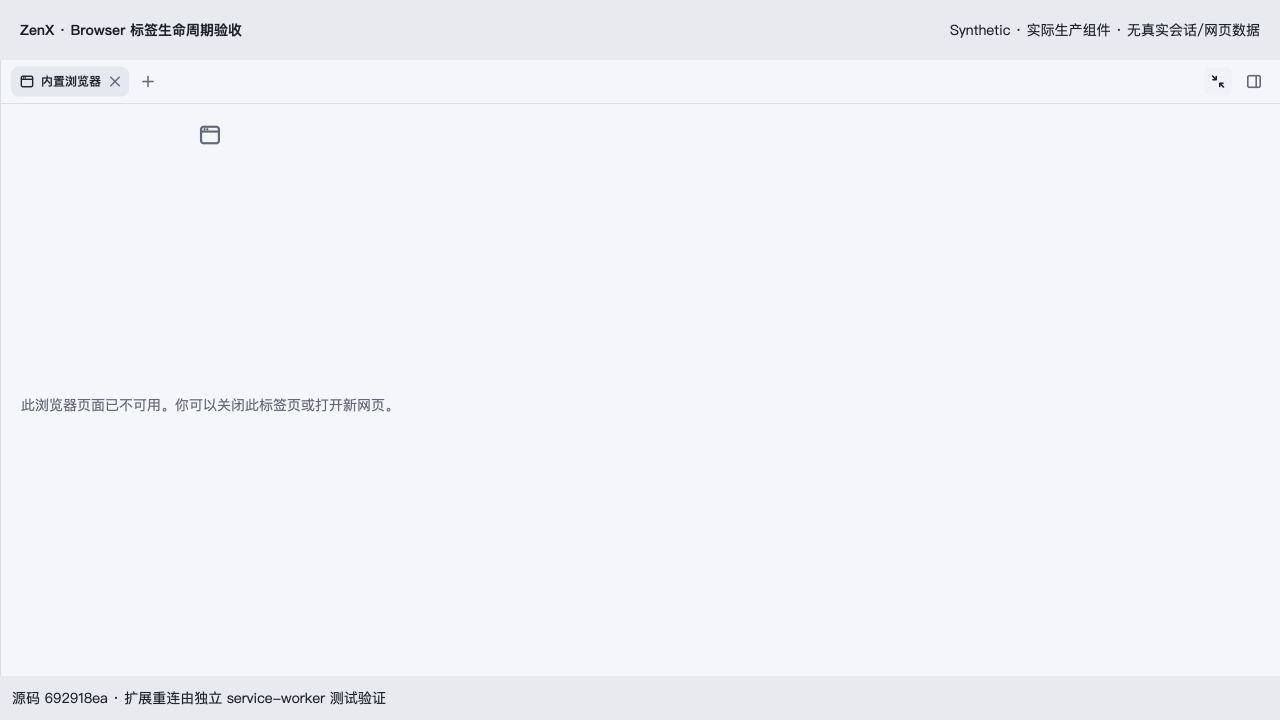
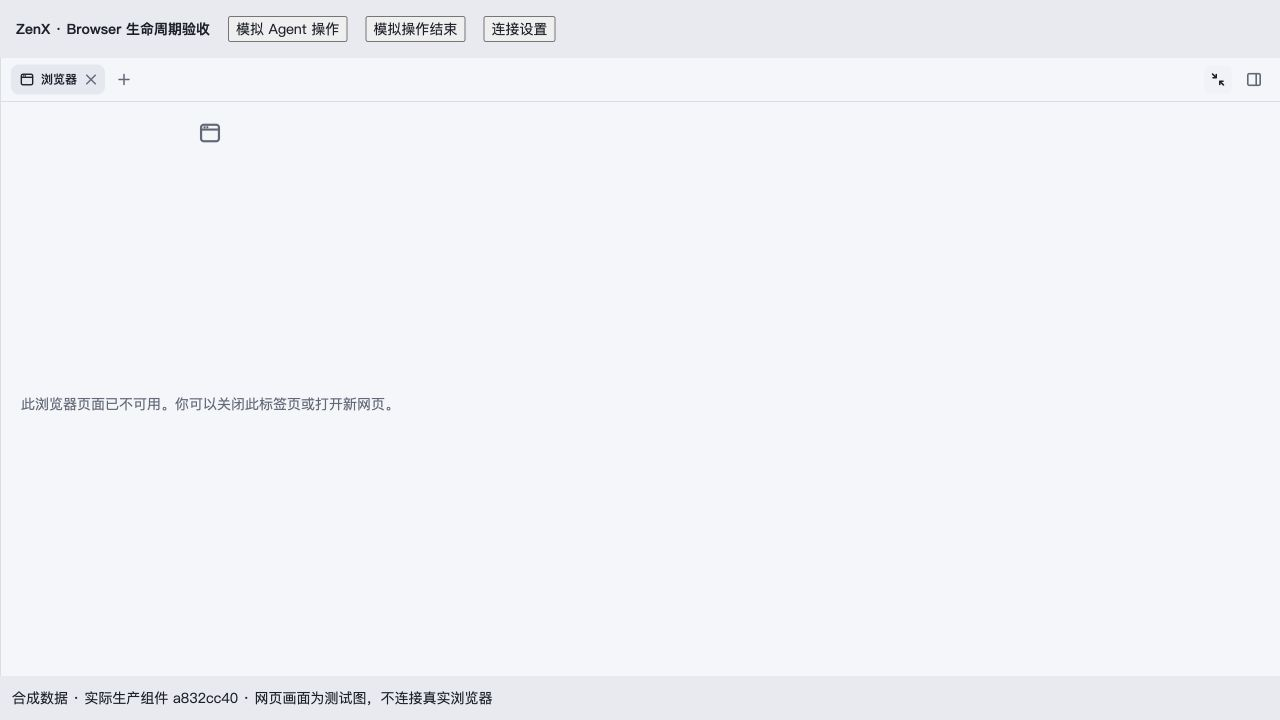
Capture unified automatic browser preview and connection acceptance

diff --git a/docs/verification/browser-tab-lifecycle.md b/docs/verification/browser-tab-lifecycle.md
@@ -1,15 +1,25 @@
-# Browser tab lifecycle verification
+# Browser lifecycle verification
 
-Production component source: `692918ea36f86a6174642e252fa04dc777667645`. Captured 2026-11-02 with the real AuxiliaryPanel, browser observer component and product styles in a Chromium browser. All resource ports, titles and URLs are synthetic. No real conversation, browser profile or learner data is included. The final documentation commit changes only these screenshots and this note.
+Runtime source: `a832cc40d0b8605fa9e0bf3c22adc13b528ffe27`, including main `831404a1`. Browser source independently reviewed at `8991a2ea`; the integration preserves those Browser components and lifecycle paths. Captured 2026-11-02 from the production AuxiliaryPanel, observer, settings and product styles in Chromium. All ports, page frames, titles, URLs and connection responses are synthetic. No real conversation or browser profile is included.
 
-- Restored expired native page shows its unavailable state. Clicking Close removes its persisted presentation without a native page operation.
-- External target discovery leaves the tab strip empty; the workspace launcher offers the built-in browser and external Chrome preview separately.
-- Choosing Chrome opens exactly one read-only preview. Closing it leaves an empty strip, and the page is still available to explicitly reopen.
+- An expired persisted page explains its unavailable state and Close dismisses it without a native page command.
+- The launcher has one Browser type. Connected Chrome discovery adds no second type or empty placeholder.
+- Actual operation metadata automatically selects one exact preview in the same tab rail, without a model UI command or moving keyboard focus. The test page image is synthetic, not evidence of native Chrome capture.
+- Completion briefly replaces the tab glyph with a check, then removes the temporary preview. Failure is tested separately and does not show a success check. Existing workspace selection is preserved behind this presentation.
+- Settings use one connection action. The synthetic connection response below verifies rendering only; real restart reconnection still requires installed-app acceptance.
 
-![Expired native page](../images/browser-tab-lifecycle/01-expired-browser.png)
+![Expired page](../images/browser-tab-lifecycle/01-expired-browser.png)
 
-![Explicit browser choice after dismissal](../images/browser-tab-lifecycle/02-explicit-browser-choice.png)
+![One Browser type](../images/browser-tab-lifecycle/02-one-browser-type.png)
 
-![One external preview](../images/browser-tab-lifecycle/03-single-chrome-preview.png)
+![Automatic exact-target preview](../images/browser-tab-lifecycle/03-single-chrome-preview.png)
 
-These captures verify production component presentation and interaction with synthetic ports. They do not establish native Electron compositor behavior, installed Chrome reconnection, or sleep/wake alarm timing. Extension service-worker tests separately verify remembered opt-in, startup/alarm reconnection without replay, explicit disconnect and debugger cancellation.
+![Completion feedback](../images/browser-tab-lifecycle/04-completion.png)
+
+![Temporary preview retired](../images/browser-tab-lifecycle/05-retired-preview.png)
+
+![Connection settings with synthetic response](../images/browser-tab-lifecycle/06-connected-settings.png)
+
+At the integrated runtime revision, 483 related/integration tests ran: 481 passed and 2 skipped. Typecheck, the official portable app build and strict/deep signature verification passed. Three source-review rounds addressed immediate debugger-cancel persistence and the Computer launcher regression; the last round had no blocking finding. The earlier broad local check was not green. After fixing this change's regressions, nine remaining failures reproduced on prepared main `831404a1`; CI and real desktop acceptance are separate gates.
+
+The development extension is 3.3.0. It starts a fresh connection at worker/browser startup and on its reconnect alarm, without replaying tab operations. Explicit disconnect and debugger cancellation stop reconnection. First installation still needs Chrome's installation confirmation; a public Chrome Web Store listing does not yet exist. This verification does not claim store distribution, rejected Chrome storage writes, native compositor behavior, or sleep/wake timing.
